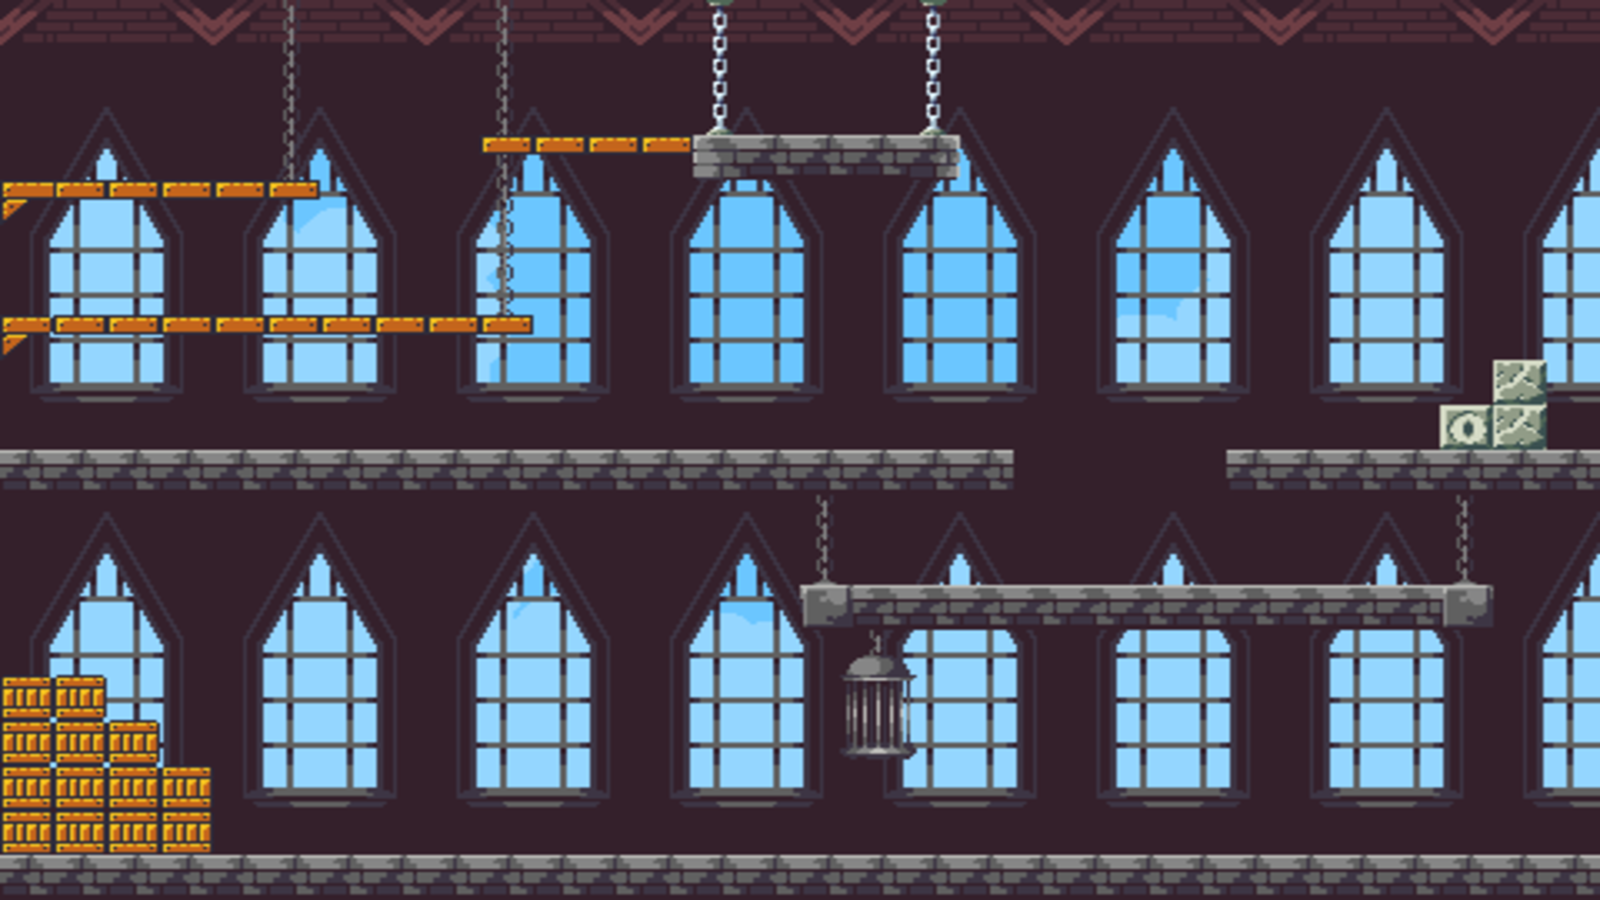
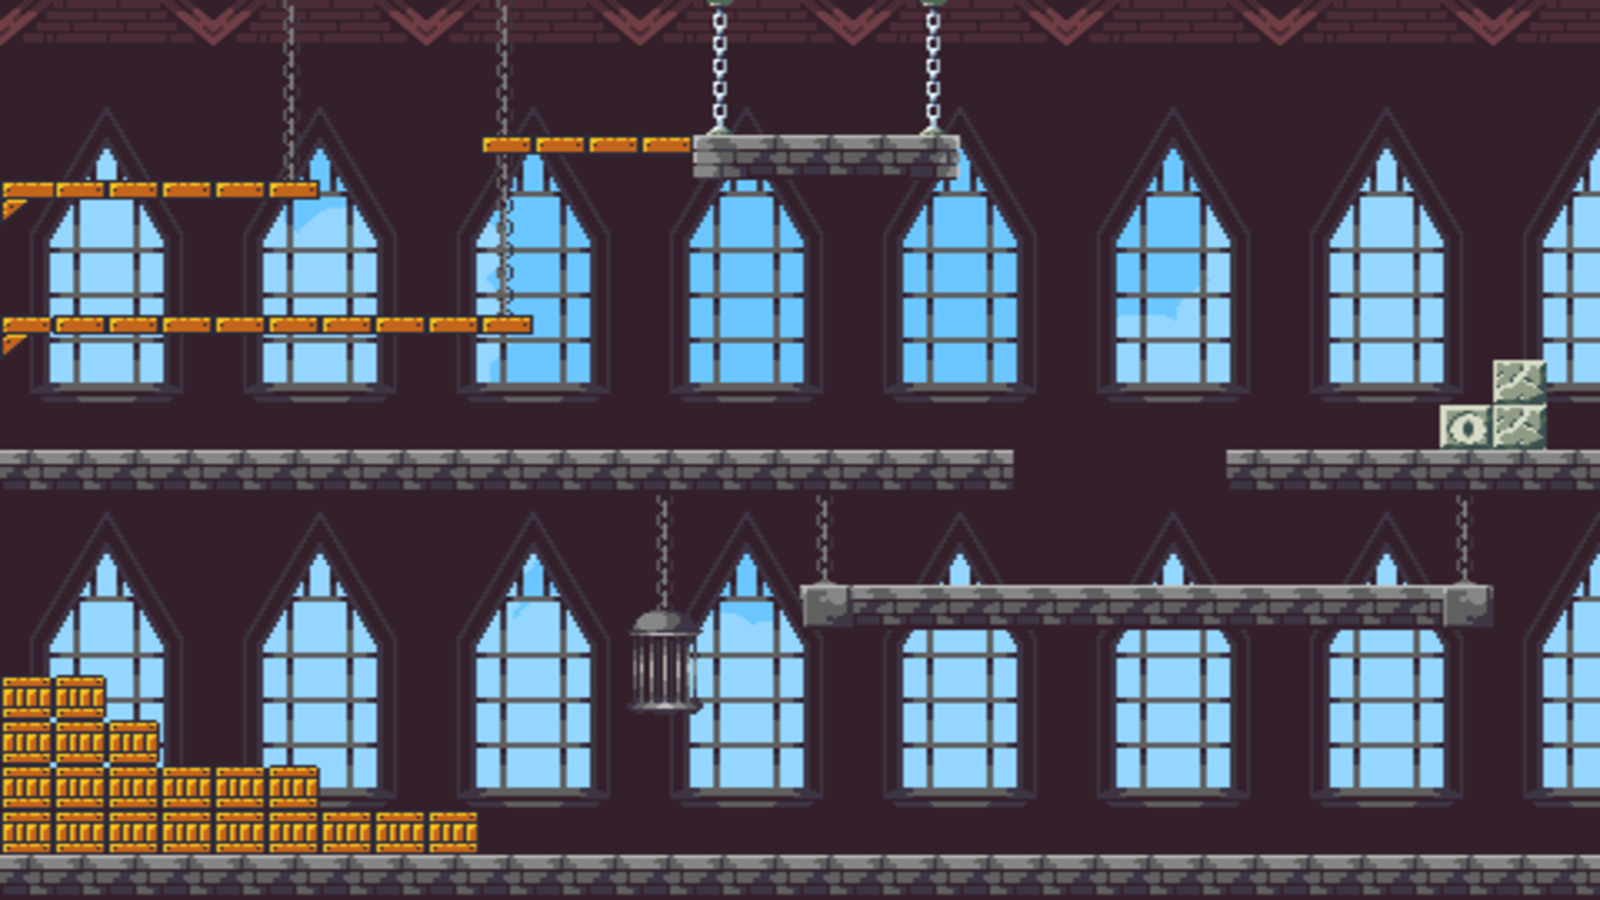
Toutes les maps

Changed region(s): [[0.125, 0.84, 0.3125, 0.9644], [0.375, 0.56, 0.4375, 0.8089], [0.5312, 0.7156, 0.5938, 0.84]]

diff --git a/CyTechProject/CytechProject/files/src/Source.cpp b/CyTechProject/CytechProject/files/src/Source.cpp
@@ -55,7 +55,7 @@ int main(void)
     Arme arme;
     arme.setArme({ 60, 40 }, 100, 35);
 
-    Map maps[5];
+    Map maps[6];
 
     Mob mobPassif[NB_MOB_PASSIF];
     mobPassif[0].setPersonnage({ 450, 300, 50, 50 });
@@ -95,7 +95,10 @@ int main(void)
     maps[1].addMobMap(new MobPath1({ 375, 600, 50, 50 }, true, 300, 450));
     maps[1].addMobMap(new Mob({ 0,855,1600,5 }));
 
+    //      Map 2
+    //  Load Background
     maps[2].setMap(LoadTexture("../CyTechProject/CyTechProject/files/ressources/map/map2.png"));
+    //  Platforms
     maps[2].addPlatformMap({ 160, 855, 640, 10 });
     maps[2].addPlatformMap({ 0,138,316,10 });
     maps[2].addPlatformMap({ 0,271,209,10 });
@@ -109,17 +112,93 @@ int main(void)
     maps[2].addPlatformMap({ a, 673, screenWidth - a, 10 });
     maps[2].addPlatformMap({ 800, 810, 54, 10 });
     maps[2].addPlatformMap({ 852, 764, 54, 10 });
+    //  Boxes
+    maps[2].addBoxMap({ 150,676,10,180 });
+    maps[2].addBoxMap({ 160,666,266,10 });
+    maps[2].addBoxMap({ 734,496,170,90 });
+    maps[2].addBoxMap({ 693,451,210,40 });
+    maps[2].addBoxMap({ 746,404,52,44 });
+    maps[2].addBoxMap({ 798,810,10,44 });
+    maps[2].addBoxMap({ 854,764,10,44 });
+    maps[2].addBoxMap({ 906,675,10,88 });
+    //  Mobs depart et type
     maps[2].addMobMap(new Mob({ 0,855,1600,5 }));
     maps[2].addMobMap(new MobPath2({ 500, 40, 50, 50 }));
 
+    //      Map 3
+    //  Load Background
     maps[3].setMap(LoadTexture("../CyTechProject/CyTechProject/files/ressources/map/map3.png"));
+    //  Platforms
     maps[3].addPlatformMap({ 0, 180, 317, 10 });
     maps[3].addPlatformMap({ 0,315,531,10 });
     maps[3].addPlatformMap({ 0,448,1013,10 });
     maps[3].addPlatformMap({ 0,855,1600,10 });
+    maps[3].addPlatformMap({ 482,138,476,10 });
+    a = 1226;
+    maps[3].addPlatformMap({ a,450,1600 - a,10 });
+    maps[3].addPlatformMap({ 803,585,689,10 });
+    maps[3].addPlatformMap({ 630,707,70,10 });
+    //  Boxes
+    maps[3].addBoxMap({ 0,675,106,44 });
+    maps[3].addBoxMap({ 0,720,160,44 });
+    maps[3].addBoxMap({ 0,765,320,44 });
+    maps[3].addBoxMap({ 0,810,480,44 });
+    maps[3].addBoxMap({ 1494,361,53,44 });
+    maps[3].addBoxMap({ 1440,406,106,44 });
+    //  Mobs depart et type
+    maps[3].addMobMap(new MobPath2({ 500, 40, 50, 50 }));
 
-    int indicMap = 1;
-    int indicLim = 2;
+    //      Map 4
+    //  Load Background
+    maps[4].setMap(LoadTexture("../CyTechProject/CyTechProject/files/ressources/map/map4.png"));
+    //  Platforms
+    maps[4].addPlatformMap({ 428, 406, 53*5, 10 });
+    a = 534;
+    maps[4].addPlatformMap({ a,855,1600 - a,10 });
+    maps[4].addPlatformMap({ 213, 270, 53 * 5, 10 });
+    maps[4].addPlatformMap({ 639, 136, 53 * 6, 10 });
+    //  Boxes
+    maps[4].addBoxMap({ 0,540,53*4,44*2 });
+    maps[4].addBoxMap({ 215,630,53 * 4,44 * 2 });
+    maps[4].addBoxMap({ 427,721,53 * 2,44 * 3 });
+    maps[4].addBoxMap({ 856,497,53,44 /2 });
+    maps[4].addBoxMap({ 908,475,35,44 / 2 });
+    maps[4].addBoxMap({ 942,453,70,44 / 2 });
+    maps[4].addBoxMap({ 1015,431,35,44 / 2 });
+    maps[4].addBoxMap({ 1050,409,315,44 / 2 });
+    maps[4].addBoxMap({ 1367,431,20,44 / 2 });
+    maps[4].addBoxMap({ 1388,453,84,44 / 2 });
+    maps[4].addBoxMap({ 1474,475,20,44 / 2 });
+    maps[4].addBoxMap({ 1494,497,53,44 / 2 });
+    //  Mobs depart et type
+    maps[4].addMobMap(new MobPath2({ 500, 40, 50, 50 }));
+
+    //      Map 5
+    //  Load Background
+    maps[5].setMap(LoadTexture("../CyTechProject/CyTechProject/files/ressources/map/map5.png"));
+    //  Platforms
+    maps[5].addPlatformMap({ 0, 180, 53 * 2, 10 });
+    maps[5].addPlatformMap({ 0, 315, 53 * 2, 10 });
+    maps[5].addPlatformMap({ 53, 450, 480, 10 });
+    maps[5].addPlatformMap({ 639, 450, 320, 10 });
+    maps[5].addPlatformMap({ 1067, 450, 480, 10 });
+    maps[5].addPlatformMap({ 0,855,1600,10 });
+    maps[5].addPlatformMap({ 1013, 315, 160, 10 });
+    maps[5].addPlatformMap({ 480, 584, 53 * 5, 10 });
+    //  Boxes
+    maps[5].addBoxMap({ 480,833,54 / 2,44 / 2 });
+    maps[5].addBoxMap({ 773, 833, 53 / 2, 44/2 });
+    maps[5].addBoxMap({ 507, 810, 266, 44/2 });
+    maps[5].addBoxMap({ 536,723,54 * 3,44 * 2 });
+    maps[5].addBoxMap({ 694,765,54,44});
+    maps[5].addBoxMap({ 1388,766,54*2,44*2 });
+    maps[5].addBoxMap({ 1494,722,53*2,44*3 });
+    //  Mobs depart et type
+    maps[5].addMobMap(new MobPath2({ 500, 40, 50, 50 }));
+
+
+    int indicMap = 5;
+    int indicLim = 5;
 
     std::vector<Mob* >mobC;
 
@@ -200,6 +279,7 @@ int main(void)
             if (mobC[i]->getIsAlive()) {
                 mobC[i]->pathMob(player);
                 Rectangle tmp = mobC[i]->getRectangle();
+                //printf("%d, %s\n", i, mobC[i]->getOrientation() ? "true" : "false");
                 DrawRectangleRec(tmp, RED);
             }
         }

diff --git a/CyTechProject/mobPath1.h b/CyTechProject/mobPath1.h
@@ -9,8 +9,6 @@ private:
 public:
 	MobPath1(Rectangle rec, bool o, float d, float a);
 	void setMob(Rectangle rec, bool o, float d, float a) override; // 0 : sans type, 1 : droite/gauche, 2 : focus perso
-	//bool getOrientation(); // true => , false <=
-	bool getOrientation(); // true => , false <=
 	void pathMob(Joueur player) override;
 	Mob* copy() override;
 };
